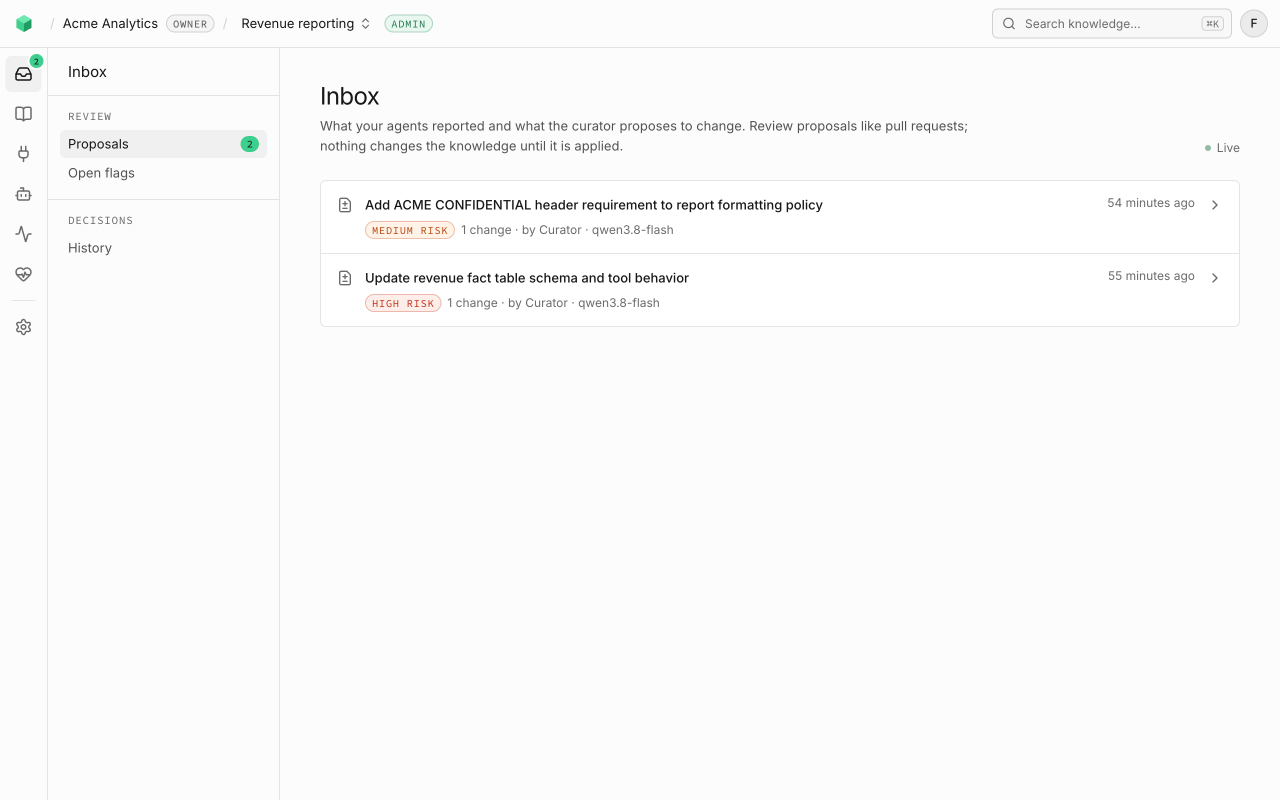
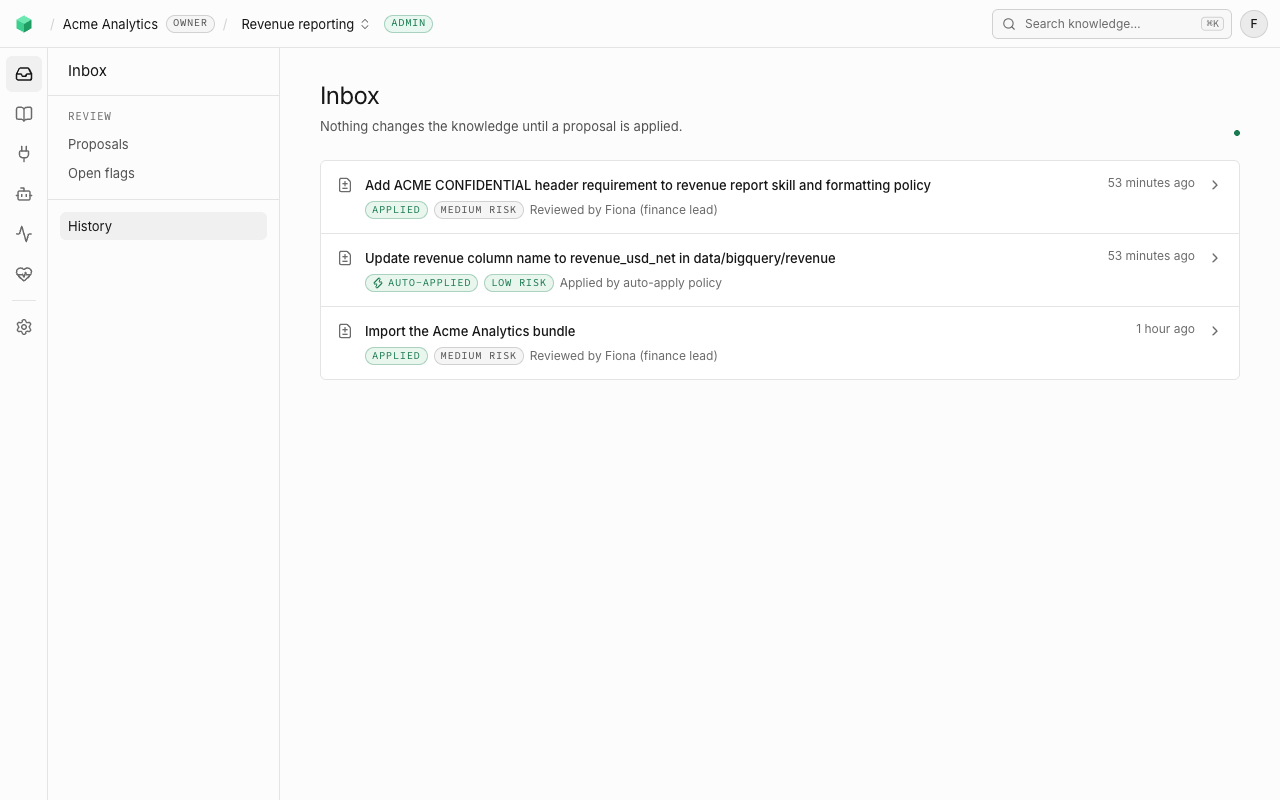
README: refresh the Studio screenshots
The screenshots predated the risk calibration and the Studio copy and
colour changes (HIGH RISK on routine fixes, orange badges, long page
subtitles). New captures from the current Studio and a live demo run on
qwen3.8-flash: inbox history (approved, auto-applied by policy, import),
an applied proposal in dark mode, the knowledge tree and the sign-in page.

diff --git a/README.md b/README.md
@@ -25,8 +25,8 @@ Supabase project.
 > change before 1.0. Not yet recommended for production data.
 
 <p align="center">
-  <img src="docs/assets/inbox-light.png" width="49%" alt="Studio review inbox with two curator proposals">
-  <img src="docs/assets/proposal-dark.png" width="49%" alt="A curator proposal with a field diff, in dark mode">
+  <img src="docs/assets/inbox-light.png" width="49%" alt="Studio inbox history: an approved curator proposal, a low-risk fix applied by policy, and the imported bundle">
+  <img src="docs/assets/proposal-dark.png" width="49%" alt="An applied curator proposal with its rationale, folded self-review and reviewer note, in dark mode">
 </p>
 <p align="center">
   <img src="docs/assets/knowledge-light.png" width="49%" alt="Knowledge browser with skills, domain and data-access concepts">
